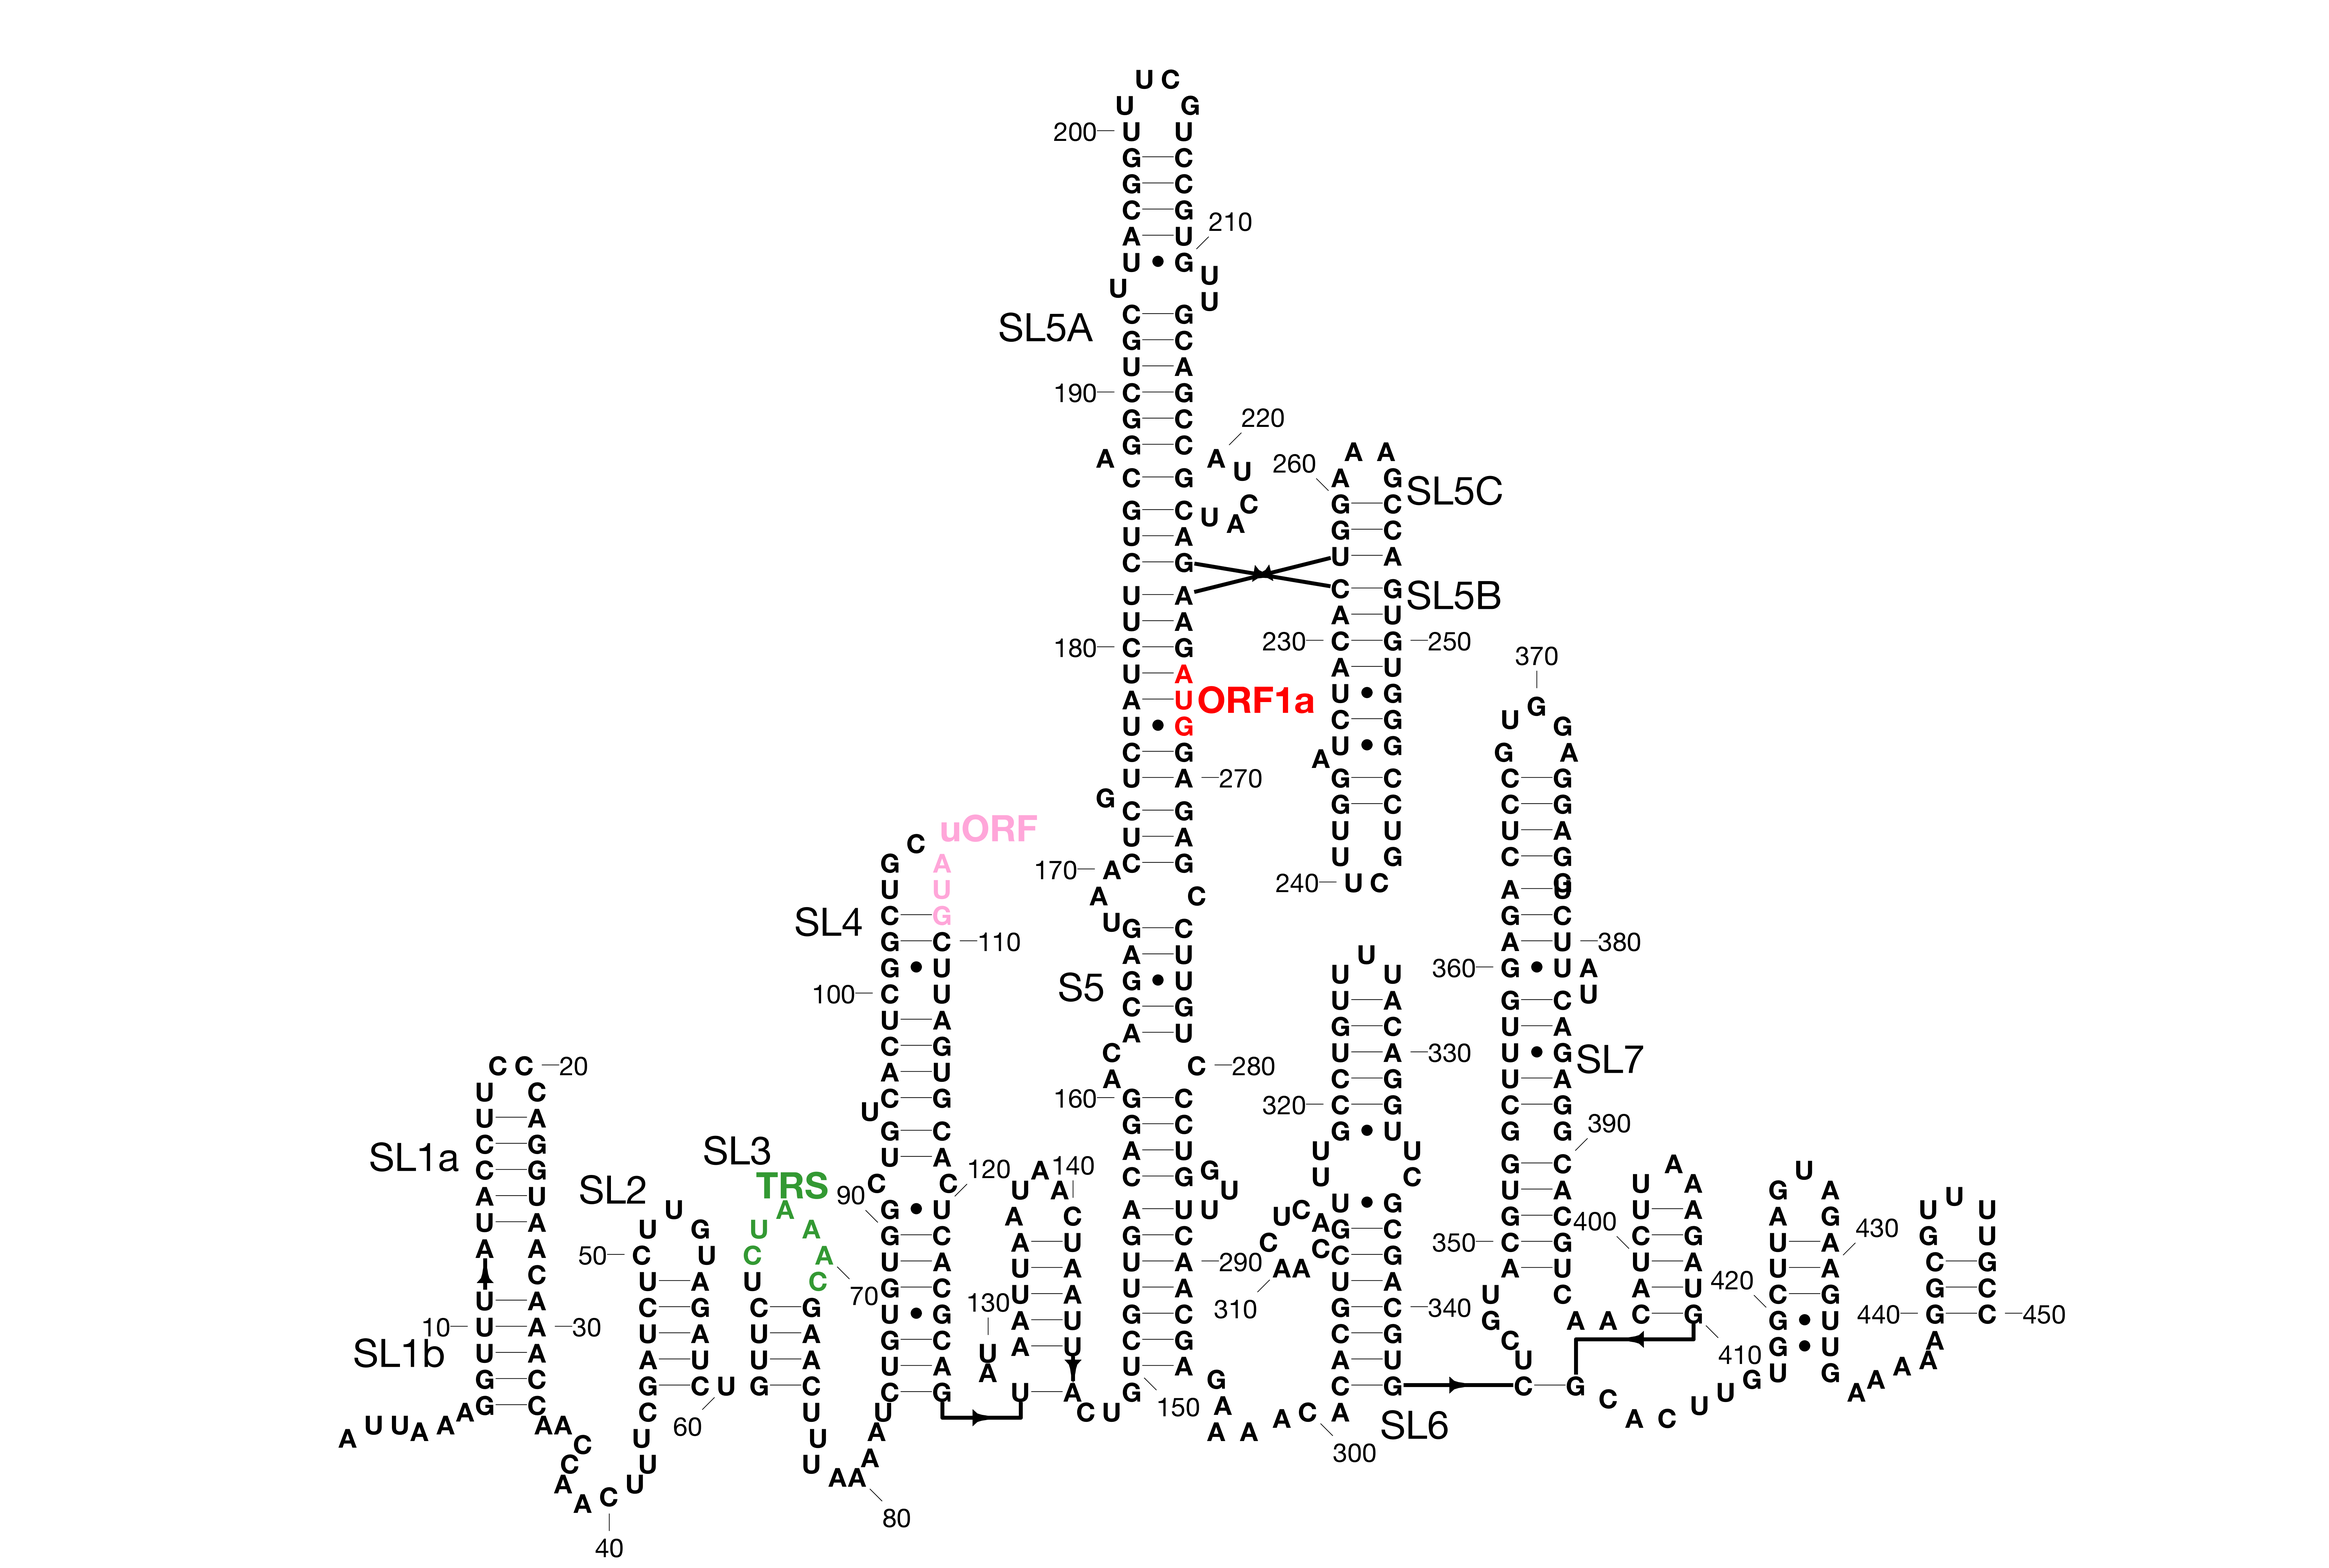
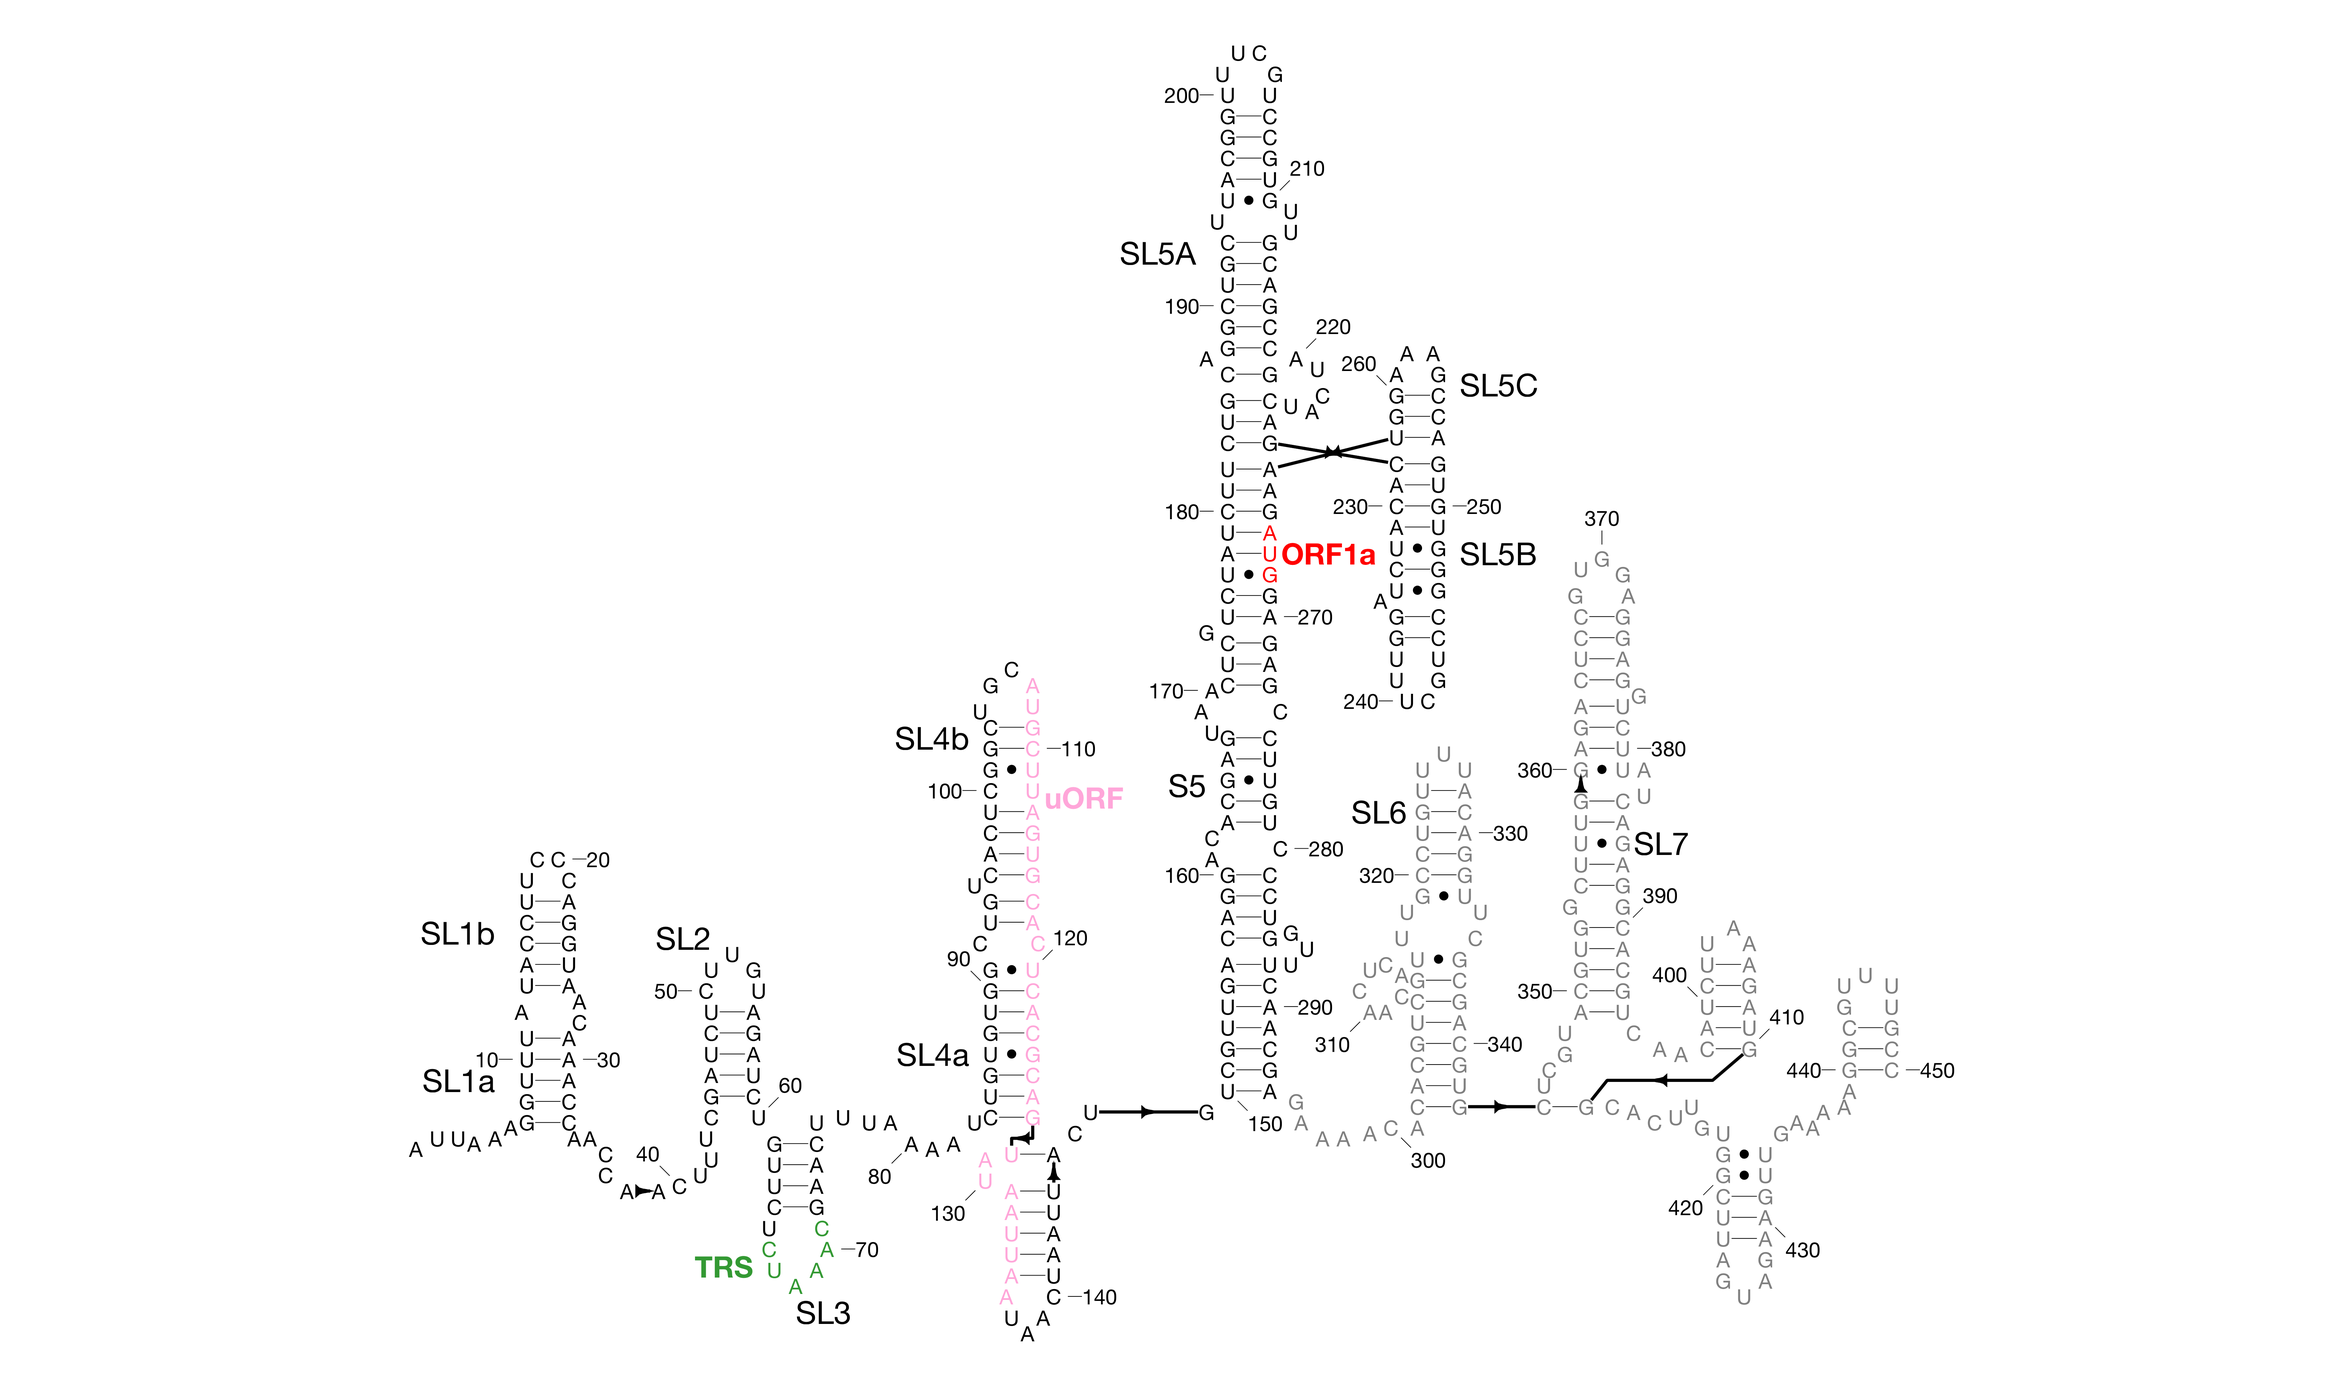
minor updates to virus 5prime

Changed region(s): [[0.1557, 0.0624, 0.872, 0.967], [0.2803, 0.6551, 0.3114, 0.6863], [0.1557, 0.9047, 0.1869, 0.9358]]

diff --git a/drawings/virus/COVID-19/5prime/prepare_COVID19_5prime_SCRIPT.m b/drawings/virus/COVID-19/5prime/prepare_COVID19_5prime_SCRIPT.m
@@ -8,7 +8,7 @@ tag = 'COVID19_5prime';
 %initialize_drawing(tag);
 %update_helix_names( 'COVID19_5prime.stems.txt' );
 
-setup_domain( 'A:107-109', 'uORF' ); color_drawing( 'pink','uORF');
+setup_domain( 'A:107-136', 'uORF' ); color_drawing( 'pink','uORF');
 setup_domain( 'A:266-268', 'ORF1a' ); color_drawing( 'red','ORF1a');
-
 setup_domain( 'A:66-71', 'TRS' ); color_drawing( 'forest','TRS');
+setup_domain( 'A:295-450', 'uncertain' ); color_drawing( 'gray60','uncertain'); hide_domain_label( 'uncertain' );
